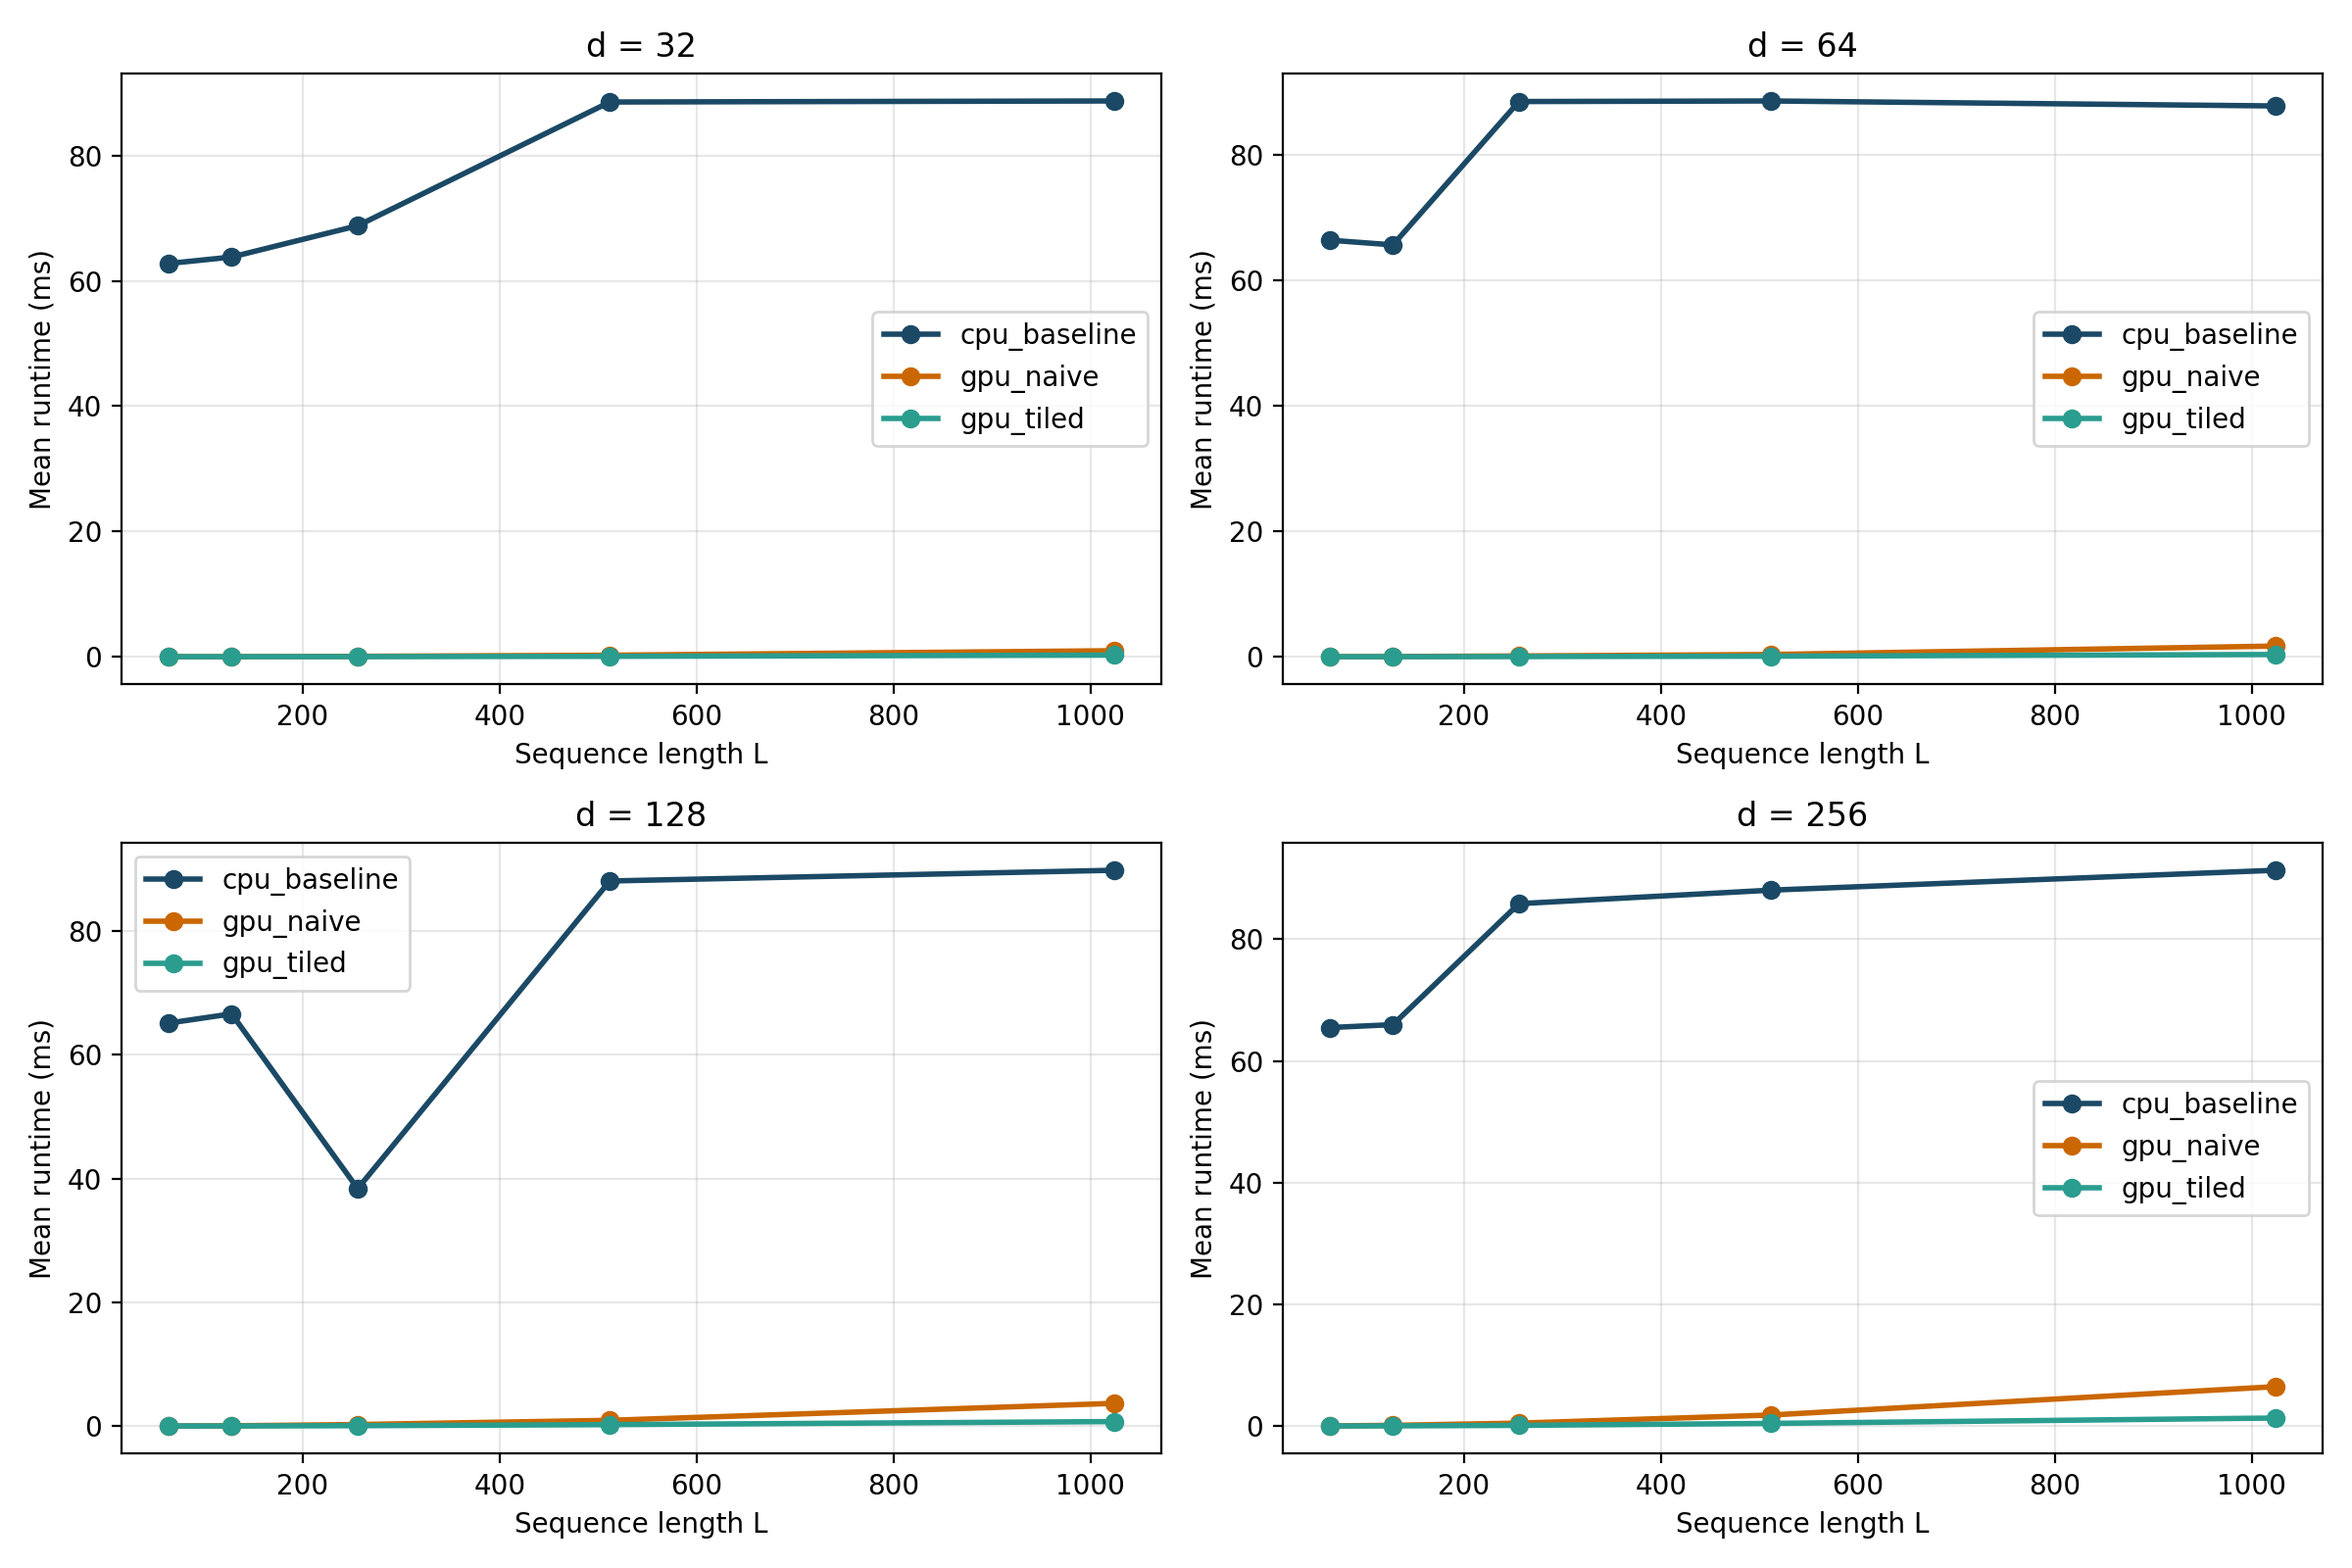
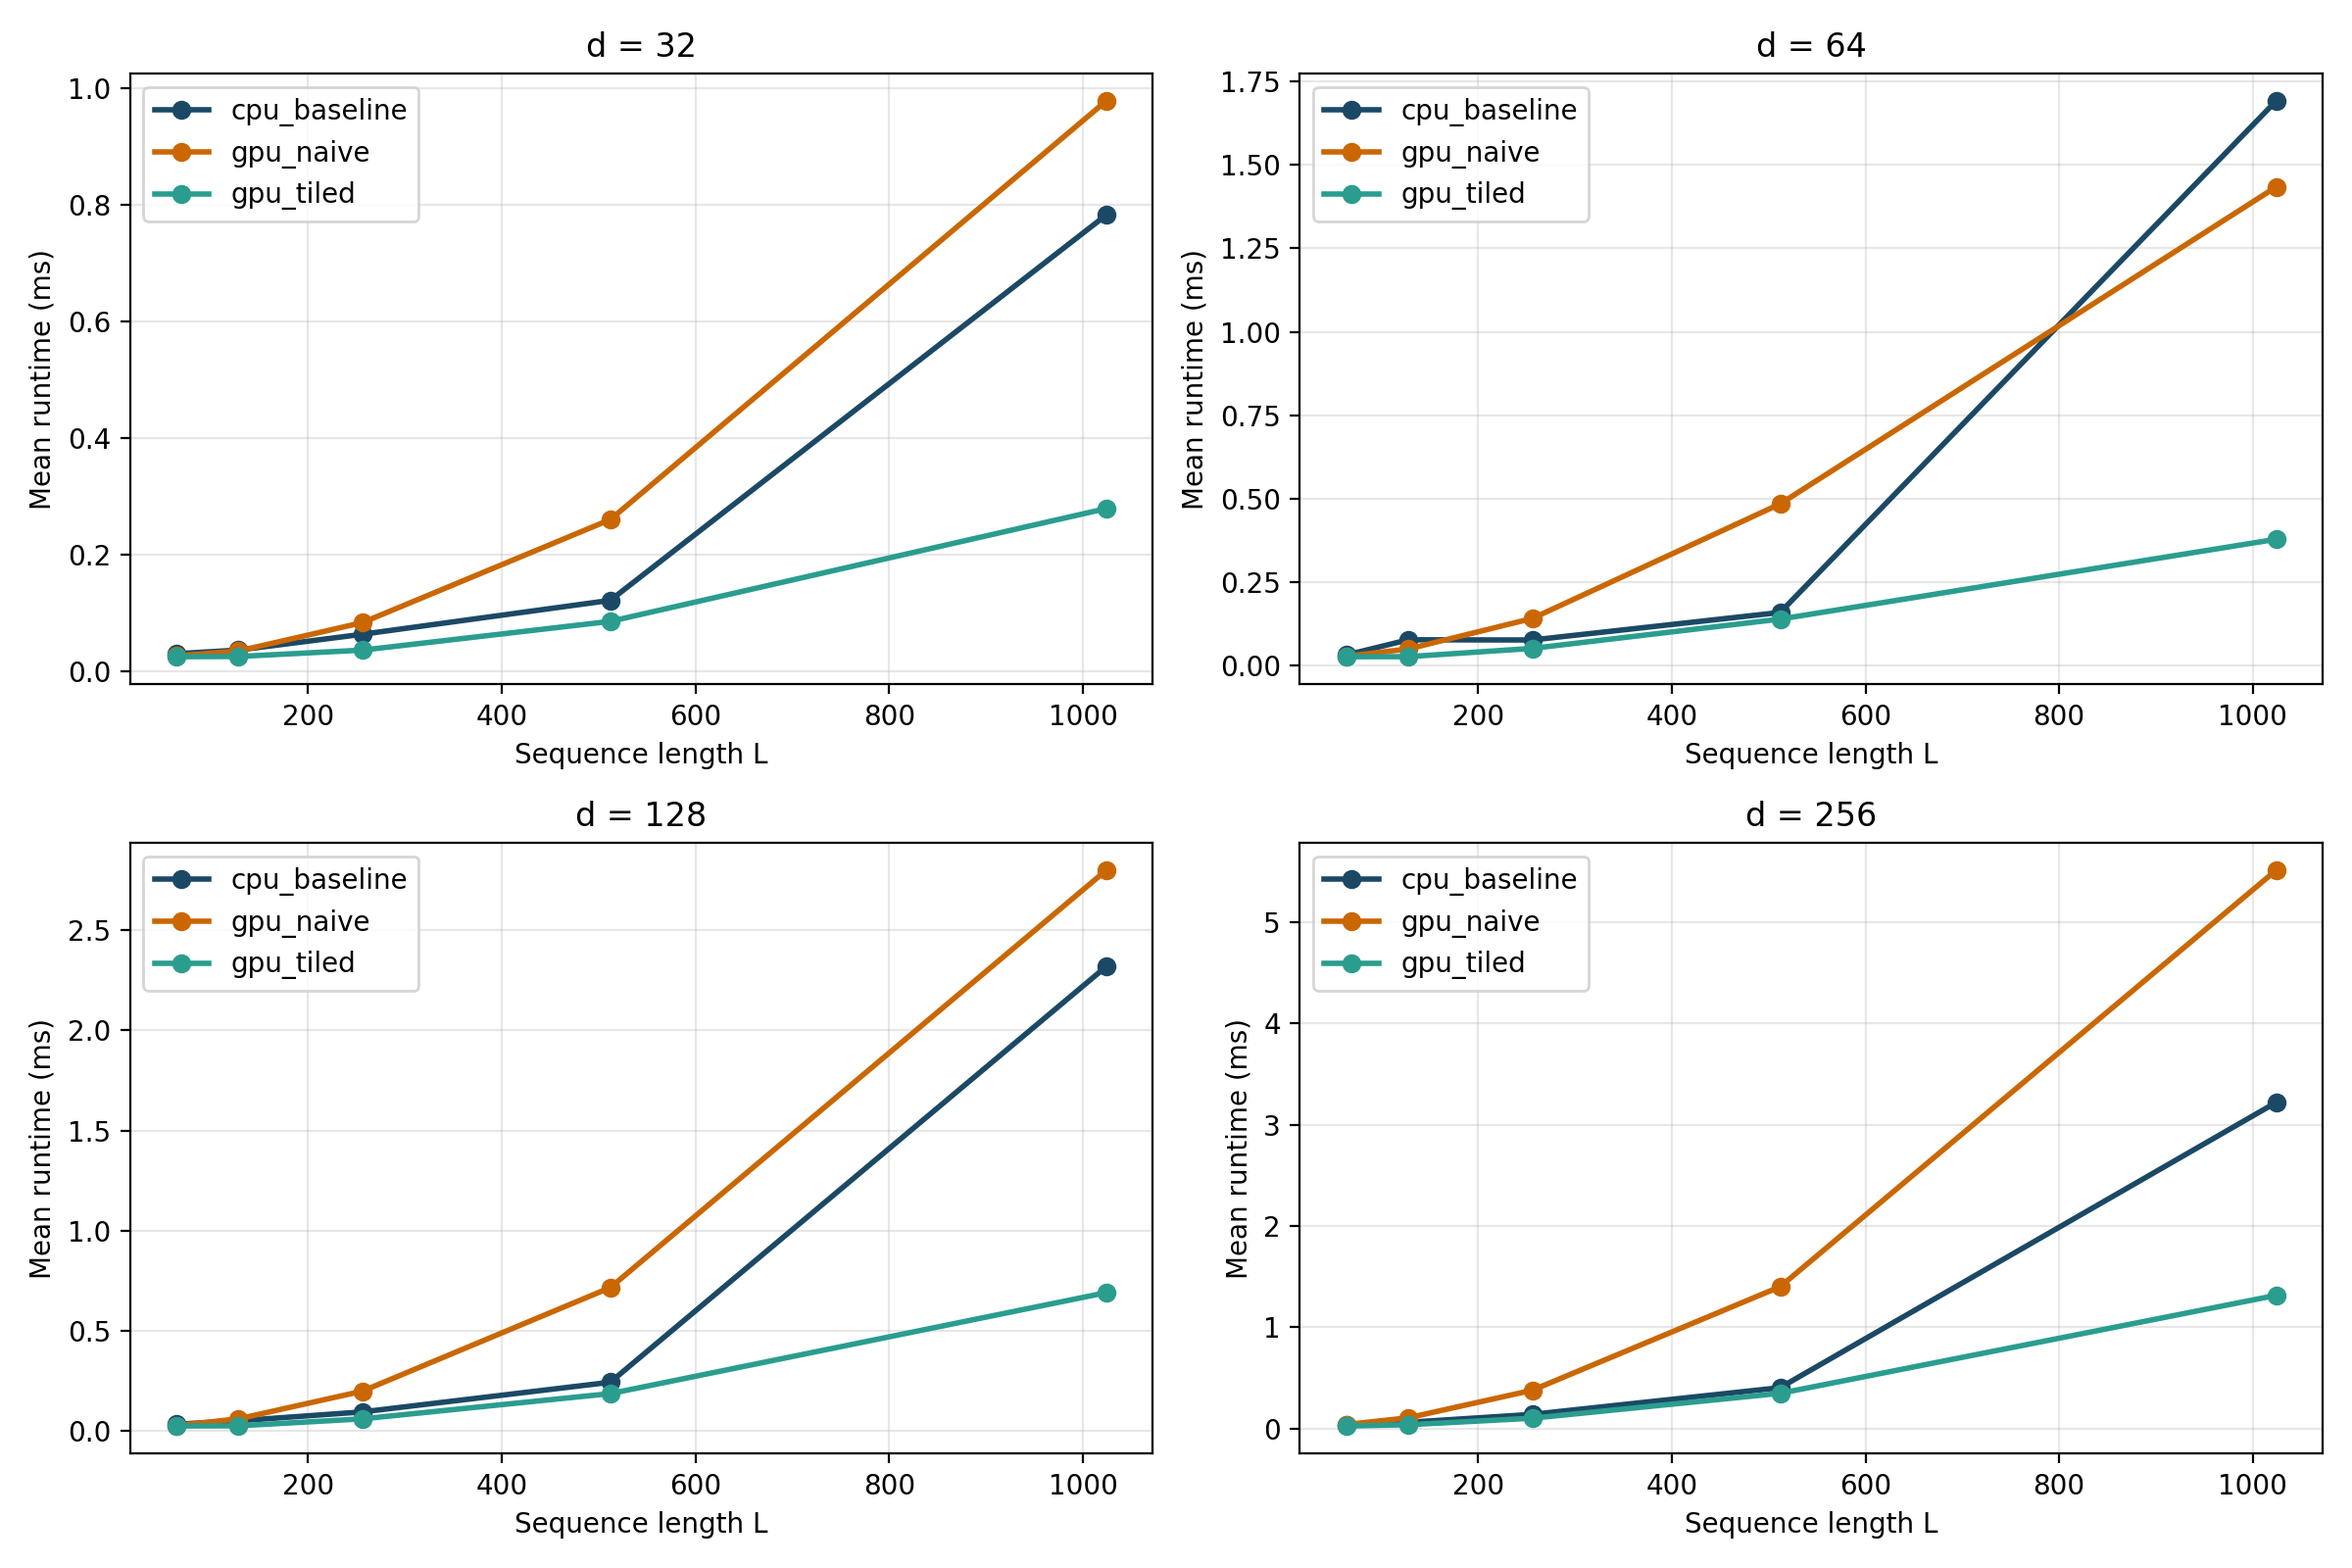
fix bugs of figures

diff --git a/results/README_results.md b/results/README_results.md
@@ -2,7 +2,7 @@
 
 - GPU model name: NVIDIA GeForce RTX 2060 SUPER
 - CUDA version: 12.8
-- Best speedup observed: 2461.38x using gpu_tiled at L=128, d=128
+- Best speedup observed: 4.49x using gpu_tiled at L=1024, d=64
 - gpu_tiled optimizations: shared-memory tiling for QK^T and P@V, plus warp-shuffle row reductions for softmax max/sum.
 - Max L tested: 1024
 - Memory notes: both GPU kernels materialize the LxL score/probability matrices in global memory.
